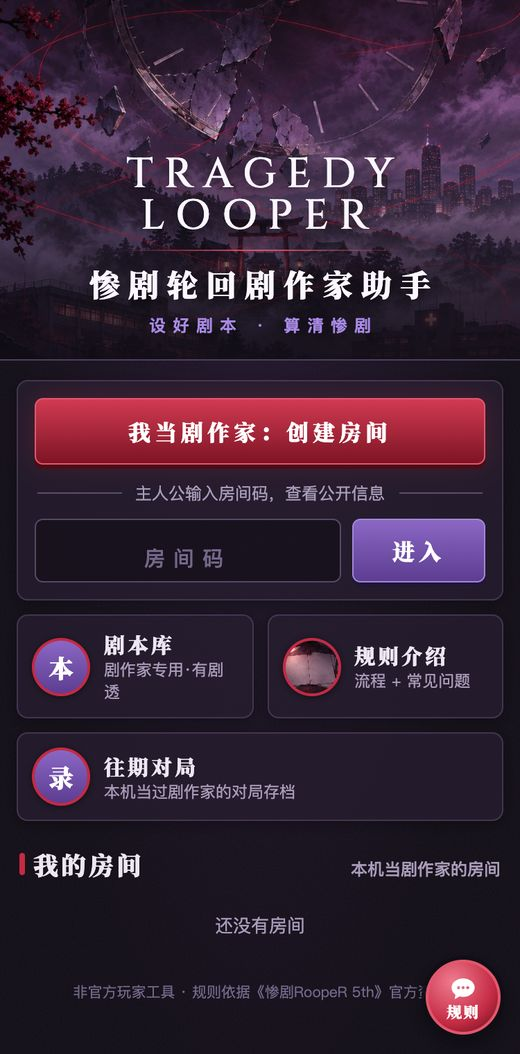
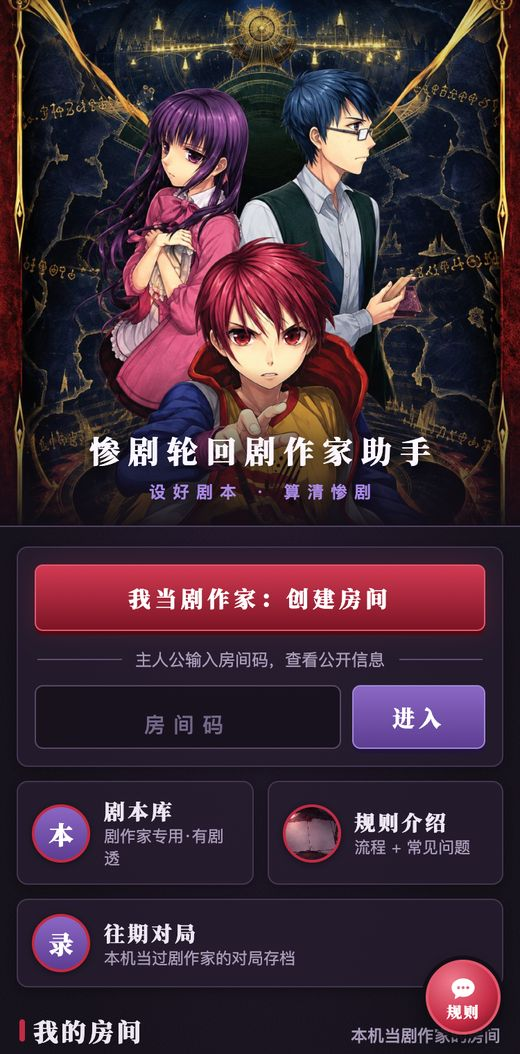
首页封面换成官方盒封面的高清化版本，并如实说明版权

diff --git a/public/app.js b/public/app.js
@@ -95,8 +95,8 @@ const bar = () => `<div class="bar" data-k="bar"><span class="ttl">惨剧轮回<
 
 function landing() {
   const my = mine();
-  return `<div class="hero-art" data-k="hero"><img src="img/hero.jpg" alt=""><div class="ht">
-      <div class="wm">TRAGEDY LOOPER</div><div class="hr"></div><div class="hz">惨剧轮回剧作家助手</div><div class="hs">设好剧本 · 算清惨剧</div></div></div>
+  return `<div class="hero-art cover" data-k="hero"><img src="img/hero.jpg" alt=""><div class="ht">
+      <div class="hz">惨剧轮回剧作家助手</div><div class="hs">设好剧本 · 算清惨剧</div></div></div>
     <div class="wrap" data-k="landing">
     <div class="card start">
       <button class="btn" data-act="create" ${ui.busy ? 'disabled' : ''}>我当剧作家：创建房间</button>
@@ -112,7 +112,7 @@ function landing() {
     <h2 class="h"><span>我的房间</span><small>本机当剧作家的房间</small></h2>
     <div class="list">${my.length ? my.map(r => `<button class="card lobby" data-act="rejoin" data-code="${r.code}" data-k="lb-${r.code}">
         <span class="lc">${r.code}</span><span class="lp">剧作家</span><span class="ls">${ago(r.t)}</span></button>`).join('') : '<div class="empty">还没有房间</div>'}</div>
-    <footer>非官方玩家工具 · 规则依据《惨剧RoopeR 5th》官方资料</footer></div>`;
+    <footer>非官方玩家工具 · 规则依据《惨剧RoopeR 5th》官方资料<br>封面为官方盒封面（Z-Man Games 英文版）的高清化版本，版权归原权利人</footer></div>`;
 }
 function ago(t) { const m = Math.floor((Date.now() - t) / 60000); return m < 1 ? '刚刚' : m < 60 ? `${m} 分钟前` : m < 1440 ? `${Math.floor(m / 60)} 小时前` : `${Math.floor(m / 1440)} 天前`; }
 

diff --git a/public/style.css b/public/style.css
@@ -191,9 +191,12 @@ ul.dots li+li{margin-top:3px}
 .join input{flex:1;min-width:0;height:48px;border-radius:6px;border:1px solid var(--line2);background:rgba(0,0,0,.35);color:var(--ink);text-align:center;font:600 24px var(--num);letter-spacing:8px;text-transform:uppercase;outline:none}
 .join input::placeholder{font:500 15px var(--sans);letter-spacing:6px;color:var(--ink3)}
 .join .btn{flex:none;width:110px;margin-top:0}
-.hero-art{position:relative;height:calc(env(safe-area-inset-top) + 260px);overflow:hidden;background:var(--steel);border-bottom:1px solid var(--line2)}
-.hero-art img{position:absolute;inset:0;width:100%;height:100%;object-fit:cover;object-position:50% 32%}
+.hero-art{position:relative;height:calc(env(safe-area-inset-top) + 300px);overflow:hidden;background:var(--steel);border-bottom:1px solid var(--line2)}
+.hero-art img{position:absolute;inset:0;width:100%;height:100%;object-fit:cover;object-position:50% 36%}
 .hero-art:after{content:"";position:absolute;inset:0;background:linear-gradient(180deg,rgba(9,7,12,.35) 0,rgba(9,7,12,0) 30%,rgba(9,7,12,.2) 55%,rgba(17,13,22,.95) 100%)}
+.hero-art.cover{height:calc(env(safe-area-inset-top) + 380px)}
+.hero-art.cover img{object-position:50% 17%}
+.hero-art.cover:after{background:linear-gradient(180deg,rgba(9,7,12,.2) 0,rgba(9,7,12,0) 25%,rgba(9,7,12,0) 70%,rgba(17,13,22,.96) 100%)}
 .hero-art .ht{position:absolute;z-index:1;left:0;right:0;bottom:16px;text-align:center;color:#fbf6ff;text-shadow:0 2px 14px rgba(0,0,0,.8)}
 .hero-art .wm{font:500 30px/1 "Cinzel",serif;letter-spacing:8px;text-indent:8px}
 .hero-art .hr{width:210px;height:1px;margin:9px auto 8px;background:linear-gradient(90deg,transparent,var(--red2),transparent)}

diff --git a/README.md b/README.md
@@ -126,7 +126,7 @@
 
 核对结果：10 个剧本的规则、身份、事件、特殊规则逐项和两份来源比对过。来源 A 有 4 处与来源 B 不一致，已按来源 B 改正（猫箱漏了局外人＝传谣人；辽阳医院的远距离杀人在第 6 天；unrerum 的特殊规则「剧作家不能用移动斜向」；Happy&Bad 第 5 天是蝴蝶效应）。仍有一处存疑：FS-02 的难度，来源 A 和中文 Wiki 写 1，英文模组写 2，页面上标注了“以剧本书为准”。`tests/test_logic.mjs` 还会检查每个剧本的身份是否符合所选规则（含上限、局外人、关键人物须为少女）、当事人互不相同。
 
-版权：剧本和规则书是出版社的付费内容。本站只收录结构化的设置数据，剧本说明、路线建议、规则讲解和常见问题都用自己的话写成，没有照搬剧本原文、剧本介绍、剧作家指引或规则书段落。插画全部原创（用 Codex 生成），不使用官方卡图和角色原画。
+版权：剧本和规则书是出版社的付费内容。本站只收录结构化的设置数据，剧本说明、路线建议、规则讲解和常见问题都用自己的话写成，没有照搬剧本原文、剧本介绍、剧作家指引或规则书段落。首页封面用的是官方盒封面（Z-Man Games 英文版）经 Codex 高清化的版本，版权归原权利人；其余插画（图标、四块版图、教程和问答横幅）是用 Codex 生成的原创插画，不使用官方卡图。
 
 ## 技术实现
 
@@ -191,5 +191,5 @@ wrangler deploy
 
 - 本项目是非官方的玩家工具，不提供游戏本体。线下对局仍需实体《惨剧轮回》。
 - 规则依据《惨剧RoopeR 5th》官方资料整理，常见问题并非官方 FAQ 的原文。
-- 游戏名称、规则、剧本的权利归 BakaFire Party 及中文版出版方所有。
+- 游戏名称、规则、剧本的权利归 BakaFire Party 及中文版出版方所有。首页封面为官方盒封面的高清化版本，版权归原权利人。
 - 代码以 [MIT](LICENSE) 许可开源。
